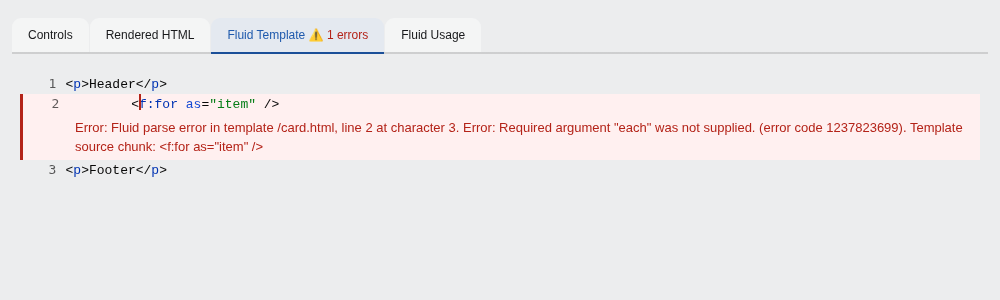
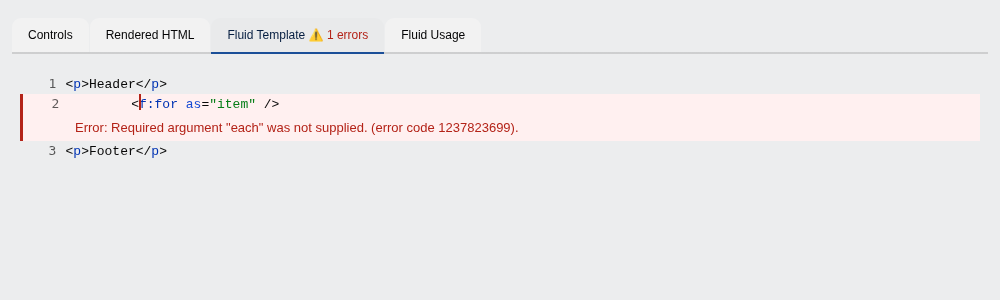
[BUGFIX] Show concise Fluid diagnostic messages

Changed region(s): [[0.093, 0.39, 0.961, 0.45], [0.062, 0.48, 0.279, 0.6], [0.217, 0.09, 0.31, 0.15]]

diff --git a/Tests/Unit/Service/FluidTemplateAnalyzerTest.php b/Tests/Unit/Service/FluidTemplateAnalyzerTest.php
@@ -15,12 +15,37 @@ use PHPUnit\Framework\Attributes\DataProvider;
 use ReflectionClass;
 use RuntimeException;
 use TYPO3Fluid\Fluid\Core\Parser\TemplateLocation;
+use TYPO3Fluid\Fluid\Core\Parser\Exception as ParserException;
 use TYPO3Fluid\Fluid\Core\TemplateLocationException;
 use TYPO3Fluid\Fluid\Validation\Deprecation;
 use TYPO3Fluid\Fluid\Validation\TemplateValidatorResult;
 
 final class FluidTemplateAnalyzerTest extends TestCase
 {
+    public function testParserContextIsRemovedFromMessageWithoutLosingTheLocation(): void
+    {
+        $original = new ParserException('Required argument "type" was not supplied.', 1237823699);
+        $error = new ParserException(
+            'Fluid parse error in template /template.html, line 1 at character 5. Error: Required argument "type" was not supplied. (error code 1237823699). Template source chunk: <f:argument name="bodytext"/>',
+            $original->getCode(),
+            $original,
+            new TemplateLocation('/template.html', 1, 5),
+        );
+        $analyzer = new ReflectionClass(FluidTemplateAnalyzer::class)->newInstanceWithoutConstructor();
+        $diagnostics = $analyzer->diagnostics(new TemplateValidatorResult('id', '/template.html', [$error], [], null), '    <f:argument name="bodytext"/>');
+        self::assertSame([
+            'line' => 1,
+            'character' => 5,
+            'severity' => 'error',
+            'message' => 'Required argument "type" was not supplied. (error code 1237823699).',
+        ], $diagnostics[0]);
+        $html = new HtmlSourceHighlighter()->highlightFluidDiagnostics('    <f:argument name="bodytext"/>', $diagnostics);
+        self::assertStringContainsString('Error: Required argument &quot;type&quot; was not supplied. (error code 1237823699).', $html);
+        self::assertStringContainsString('data-character="5"', $html);
+        self::assertStringNotContainsString('/template.html', $html);
+        self::assertStringNotContainsString('Template source chunk:', $html);
+    }
+
     public function testOnlyLocationsWithinTheDisplayedTemplateAreAnnotated(): void
     {
         $errors = [new RuntimeException('Unlocated <script>')];

diff --git a/Classes/Service/FluidTemplateAnalyzer.php b/Classes/Service/FluidTemplateAnalyzer.php
@@ -9,6 +9,7 @@ use Andersundsehr\FrontendStudio\Dto\ComponentTemplateMetadata;
 use Throwable;
 use TYPO3\CMS\Fluid\Core\Rendering\RenderingContextFactory;
 use TYPO3Fluid\Fluid\Core\TemplateLocationException;
+use TYPO3Fluid\Fluid\Core\Parser\Exception as ParserException;
 use TYPO3Fluid\Fluid\Validation\TemplateValidator;
 use TYPO3Fluid\Fluid\Validation\TemplateValidatorResult;
 
@@ -66,7 +67,12 @@ final readonly class FluidTemplateAnalyzer
             $location = $error instanceof TemplateLocationException ? $error->getTemplateLocation() : null;
             $line = $location !== null && $location->identifierOrPath === $result->path && $location->line > 0 && $location->line <= $lineCount
                 ? $location->line : null;
-            $diagnostics[] = ['line' => $line, 'character' => $line !== null && $location->character > 0 ? $location->character : null, 'severity' => 'error', 'message' => $error->getMessage()];
+            // Fluid's location wrapper repeats the path, position and source chunk.
+            // Keep its structured location for the marker, but display the original error.
+            $message = $error instanceof ParserException && $error->getPrevious() !== null
+                ? $error->getPrevious()->getMessage() . ' (error code ' . $error->getCode() . ').'
+                : $error->getMessage();
+            $diagnostics[] = ['line' => $line, 'character' => $line !== null && $location->character > 0 ? $location->character : null, 'severity' => 'error', 'message' => $message];
         }
 
         foreach ($result->deprecations as $deprecation) {

diff --git a/Tests/Functional/Service/FluidTemplateAnalyzerTest.php b/Tests/Functional/Service/FluidTemplateAnalyzerTest.php
@@ -36,6 +36,10 @@ final class FluidTemplateAnalyzerTest extends FunctionalTestCase
             self::assertSame(1, $result['errorCount']);
             self::assertStringContainsString('is-error" data-line="2"', $result['source']);
             self::assertStringContainsString('frontend-studio-template-marker" data-character="2"', $result['source']);
+            self::assertStringContainsString('Error: Required argument &quot;each&quot; was not supplied. (error code 1237823699).', $result['source']);
+            self::assertStringNotContainsString($path, $result['source']);
+            self::assertStringNotContainsString('Fluid parse error in template', $result['source']);
+            self::assertStringNotContainsString('Template source chunk:', $result['source']);
         }
 
         // Rendering this throws without a configured link target; parsing must succeed.
